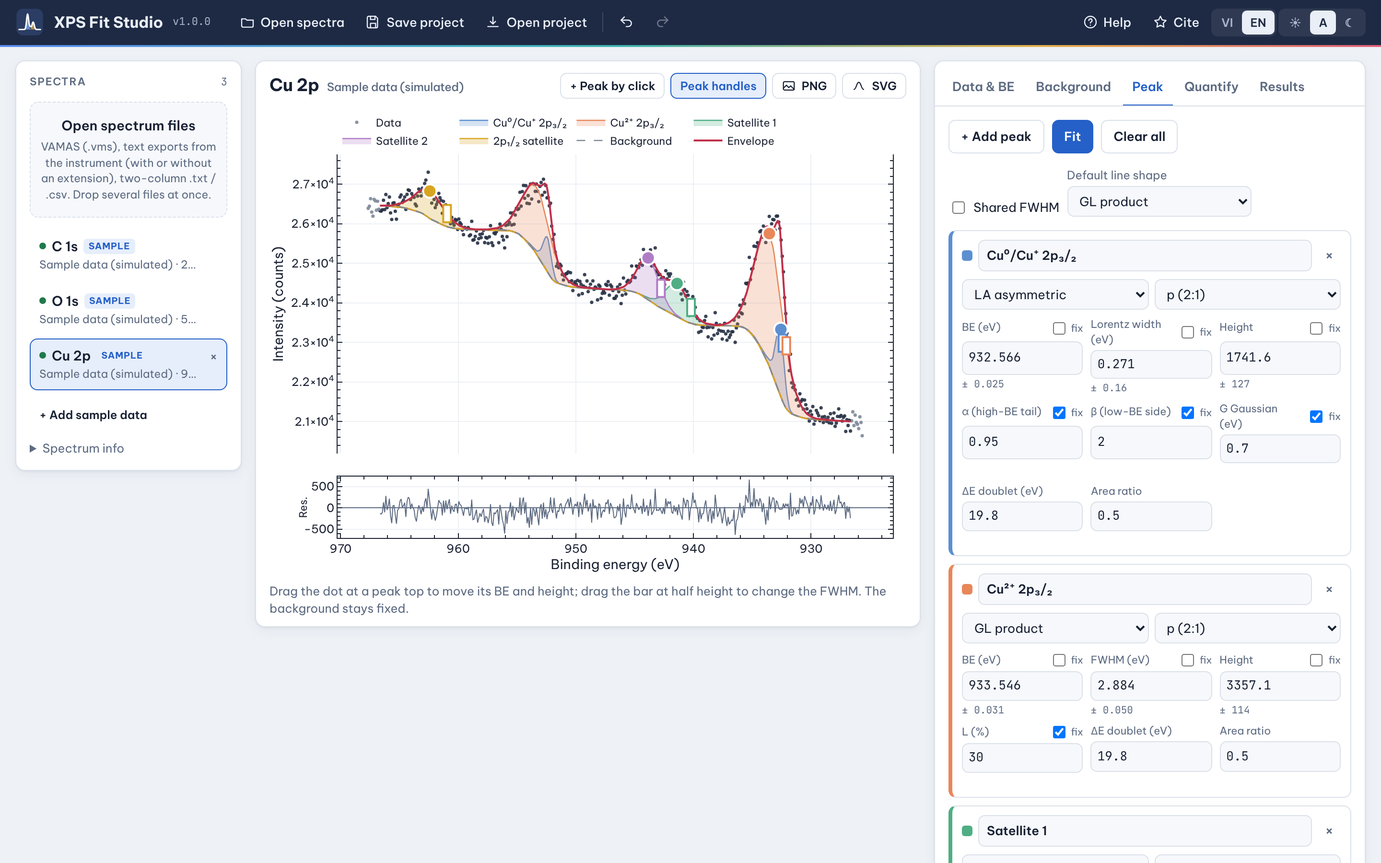
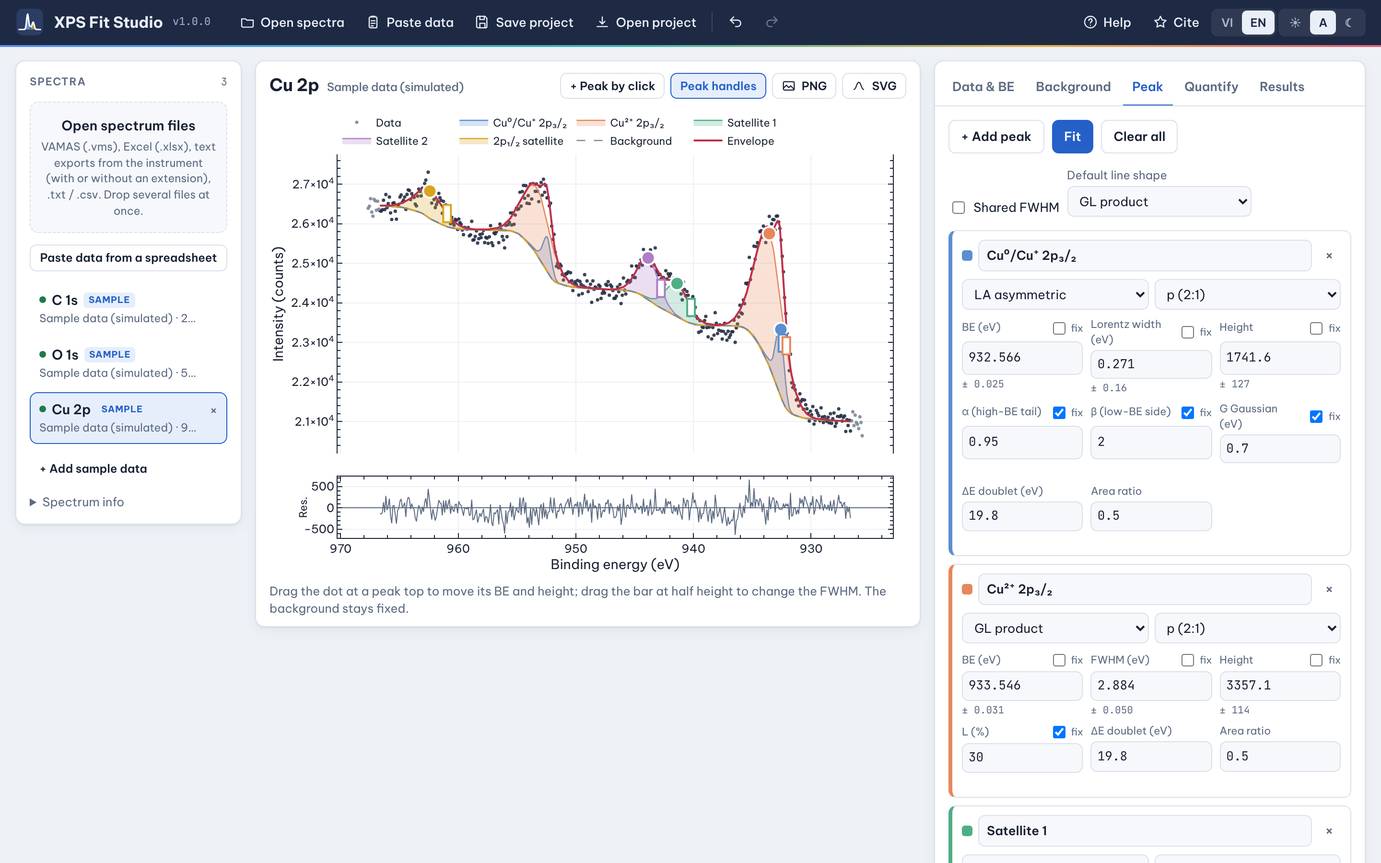
Add files via upload

Changed region(s): [[0.0, 0.3422, 0.1875, 0.5911], [0.0312, 0.1556, 0.1562, 0.3111], [0.2812, 0.0, 0.5, 0.0311]]

diff --git a/xpsfit/docs/app.js b/xpsfit/docs/app.js
@@ -1,6 +1,7 @@
 /* XPS Fit Studio — user interface. © 2026 Phong Hoai Le — MIT License. */
 (() => {
   const $ = id => document.getElementById(id);
+  const on = (id, ev, fn) => $(id).addEventListener(ev, fn);
   const t = I18N.t;
   XPS.t = I18N.t;
   const REPO = 'https://github.com/lephong2810/XPSFitStudio';
@@ -114,6 +115,13 @@
     let added = 0; const errs = [];
     for (const f of files) {
       try {
+        if (/\.(xlsx|xlsm|xls|ods)$/i.test(f.name)) {
+          const res = await readWorkbook(f);
+          if (res.ask) { openPaste(res.ask, f.name); continue; }
+          if (!added) spectra = spectra.filter(s => !s.sample);
+          res.spectra.forEach(s => spectra.push(s)); added += res.spectra.length;
+          continue;
+        }
         const text = await f.text();
         if (/\.json$|\.xpsfit$/i.test(f.name) && /"app"\s*:\s*"XPS Fit Studio"/.test(text.slice(0, 200))) { loadProject(text, true); toast(t('Đã mở project {0}', f.name)); continue; }
         const res = XPS.parseAny(text, f.name);
@@ -126,6 +134,118 @@
     if (added) { cur = spectra.length - added; afterStructure(); toast(t('Đã đọc {0} phổ', added) + (errs.length ? t(' (có cảnh báo)') : '')); }
     if (errs.length) setMsg(errs.join('\n'), true);
   }
+  // Spreadsheet files: every sheet with a BE column and at least one intensity column becomes spectra.
+  // When a sheet has no header and several numeric columns, the paste workbook opens so the columns can be checked.
+  async function readWorkbook(f) {
+    if (!window.XLSX) throw new Error(t('Thư viện Excel chưa tải xong, thử lại sau giây lát'));
+    const wb = XLSX.read(await f.arrayBuffer(), { type: 'array' });
+    const base = f.name.replace(/\.[^.]+$/, ''), out = [];
+    let ask = null;
+    wb.SheetNames.forEach(sn => {
+      const aoa = XLSX.utils.sheet_to_json(wb.Sheets[sn], { header: 1, raw: true, blankrows: false, defval: null });
+      if (!aoa.length) return;
+      try {
+        const T = XPS.detectTable(aoa);
+        const nY = T.cols.filter(c => c.role === 'y').length;
+        if (!T.headerRows && nY > 1 && wb.SheetNames.length === 1) { ask = aoa; return; }
+        const nm = wb.SheetNames.length > 1 && !/^(sheet|trang tính)\s*\d*$/i.test(sn) ? sn : base;
+        out.push(...XPS.tableToSpectra(T, { name: nm, source: f.name + (wb.SheetNames.length > 1 ? ' · ' + sn : '') }).spectra);
+      } catch (e) { if (!ask && wb.SheetNames.length === 1) ask = aoa; }
+    });
+    return out.length ? { spectra: out } : { ask: ask || [] };
+  }
+
+  // ======================================================================
+  // Paste workbook
+  // ======================================================================
+  let pasteAoa = [], pasteT = null, pasteFlip = false, pasteSrc = '';
+  const ROLES = [['be', 'BE (eV)'], ['ke', 'KE (eV)'], ['y', 'Cường độ'], ['skip', 'Bỏ qua']];
+  function openPaste(aoa, src) {
+    pasteAoa = aoa || []; pasteFlip = false; pasteSrc = src || t('Dán từ bảng tính');
+    $('pasteText').value = aoa && aoa.length ? aoa.slice(0, 2000).map(r => r.map(c => c === null || c === undefined ? '' : c).join('\t')).join('\n') : '';
+    if (src && !$('pName').value) $('pName').value = src.replace(/\.[^.]+$/, '');
+    detectPaste(); openDlg('dlgPaste');
+    setTimeout(() => { if (!aoa || !aoa.length) $('pasteText').focus(); }, 50);
+  }
+  function detectPaste(keepRoles) {
+    const old = keepRoles && pasteT ? pasteT.cols.map(c => c.role) : null;
+    try { pasteT = pasteAoa.length ? XPS.detectTable(pasteAoa, { transpose: pasteFlip ? !XPS.detectTable(pasteAoa).transposed : undefined }) : null; } catch (e) { pasteT = null; }
+    if (pasteT && old && old.length === pasteT.cols.length) pasteT.cols.forEach((c, i) => c.role = old[i]);
+    renderPaste();
+  }
+  function renderPaste() {
+    const g = $('pasteGrid'); g.innerHTML = '';
+    const T = pasteT;
+    if (!T || !T.cols.length) { $('pasteInfo').textContent = pasteAoa.length ? t('Không đọc được số liệu.') : ''; $('pasteAdd').disabled = true; Plotly.purge('pastePlot'); $('pastePlot').hidden = true; $('pHv').closest('.field').hidden = true; return; }
+    const nRows = Math.max(0, ...T.cols.map(c => c.data.length));
+    $('pasteInfo').textContent = t('{0} cột × {1} dòng', T.cols.length, nRows) + (T.transposed ? ' · ' + t('đã đổi hàng thành cột') : '');
+    const thead = document.createElement('thead'), r1 = document.createElement('tr'), r2 = document.createElement('tr');
+    r1.appendChild(document.createElement('th')); r2.appendChild(document.createElement('th'));
+    T.cols.forEach((c, j) => {
+      const th = document.createElement('th'), sel = document.createElement('select'); sel.id = 'pc' + j;
+      ROLES.forEach(([k, l]) => sel.add(new Option(t(l), k))); sel.value = c.role;
+      sel.onchange = () => { c.role = sel.value; renderPaste(); };
+      th.appendChild(sel); if (c.role === 'skip') th.className = 'off'; r1.appendChild(th);
+      const th2 = document.createElement('th'), inp = document.createElement('input'); inp.type = 'text'; inp.id = 'pl' + j; inp.value = c.label; inp.placeholder = t('cột {0}', j + 1);
+      inp.onchange = () => { c.label = inp.value.trim(); renderPaste(); };
+      th2.appendChild(inp); if (c.role === 'skip') th2.className = 'off'; r2.appendChild(th2);
+    });
+    thead.append(r1, r2); g.appendChild(thead);
+    const tb = document.createElement('tbody'), show = Math.min(nRows, 6);
+    for (let i = 0; i < show; i++) {
+      const tr = document.createElement('tr'), rh = document.createElement('td'); rh.className = 'rh'; rh.textContent = i + 1; tr.appendChild(rh);
+      T.cols.forEach(c => { const td = document.createElement('td'); td.textContent = c.data[i] ?? ''; if (c.role === 'skip') td.className = 'off'; tr.appendChild(td); });
+      tb.appendChild(tr);
+    }
+    if (nRows > show) { const tr = document.createElement('tr'); tr.className = 'more'; const td = document.createElement('td'); td.colSpan = T.cols.length + 1; td.textContent = t('… và {0} dòng nữa', nRows - show); tr.appendChild(td); tb.appendChild(tr); }
+    g.appendChild(tb);
+    const hasKE = T.cols.some(c => c.role === 'ke');
+    $('pHv').closest('.field').hidden = !hasKE;
+    let res = null;
+    try { res = XPS.tableToSpectra(T, pasteOpts()); } catch (e) { }
+    $('pasteAdd').disabled = !res;
+    $('pasteAdd').textContent = res && res.spectra.length > 1 ? t('Thêm {0} phổ vào danh sách', res.spectra.length) : t('Thêm vào danh sách phổ');
+    $('pastePlot').hidden = !res;
+    if (res) {
+      const tr = res.spectra.map((s, k) => ({ x: s.be, y: s.y, name: s.name, mode: 'lines', line: { width: 1.4, color: PAL[k % PAL.length] } }));
+      const ink = css('--plot-ink'), grid = css('--plot-grid');
+      Plotly.react('pastePlot', tr, { margin: { l: 56, r: 10, t: 8, b: 36 }, paper_bgcolor: 'rgba(0,0,0,0)', plot_bgcolor: css('--plot-bg'), font: { family: css('--f-ui'), size: 11, color: ink },
+        xaxis: { autorange: 'reversed', title: { text: 'Binding energy (eV)' }, gridcolor: grid, showline: true, mirror: true, linecolor: ink }, yaxis: { gridcolor: grid, showline: true, mirror: true, linecolor: ink, exponentformat: 'power' },
+        showlegend: res.spectra.length > 1, legend: { orientation: 'h', y: 1.02, yanchor: 'bottom' } }, { displayModeBar: false, responsive: true });
+    } else Plotly.purge('pastePlot');
+  }
+  function pasteOpts() {
+    const a = parseFloat($('pAcq').value);
+    return { name: $('pName').value.trim() || pasteSrc.replace(/\.[^.]+$/, '') || 'Spectrum', source: pasteSrc, unit: $('pUnit').value || null, acq: a > 0 ? a : null, hv: parseFloat($('pHv').value) || 1486.6 };
+  }
+  let pasteTimer = null;
+  on('pasteText', 'input', () => { clearTimeout(pasteTimer); pasteTimer = setTimeout(() => { pasteAoa = XPS.textToAoa($('pasteText').value); if (pasteSrc === t('Dán từ bảng tính') || !pasteSrc) pasteSrc = t('Dán từ bảng tính'); detectPaste(); }, 200); });
+  on('pasteFlip', 'click', () => { pasteFlip = !pasteFlip; detectPaste(); });
+  on('pasteClear', 'click', () => { $('pasteText').value = ''; pasteAoa = []; pasteT = null; renderPaste(); $('pasteText').focus(); });
+  ['pName', 'pUnit', 'pAcq', 'pHv'].forEach(id => on(id, 'change', renderPaste));
+  on('pasteOpenFile', 'click', () => $('pasteFile').click());
+  on('pasteFile', 'change', async e => {
+    const f = e.target.files[0]; e.target.value = ''; if (!f) return;
+    try {
+      let aoa;
+      if (/\.(xlsx|xlsm|xls|ods)$/i.test(f.name)) { const wb = XLSX.read(await f.arrayBuffer(), { type: 'array' }); aoa = XLSX.utils.sheet_to_json(wb.Sheets[wb.SheetNames[0]], { header: 1, raw: true, blankrows: false, defval: null }); }
+      else aoa = XPS.textToAoa(await f.text());
+      pasteSrc = f.name; if (!$('pName').value) $('pName').value = f.name.replace(/\.[^.]+$/, '');
+      pasteAoa = aoa; $('pasteText').value = aoa.slice(0, 2000).map(r => r.map(c => c ?? '').join('\t')).join('\n'); pasteFlip = false; detectPaste();
+    } catch (err) { $('pasteInfo').textContent = err.message; }
+  });
+  on('pasteAdd', 'click', () => {
+    try {
+      const res = XPS.tableToSpectra(pasteT, pasteOpts());
+      spectra = spectra.filter(s => !s.sample);
+      res.spectra.forEach(s => spectra.push(s));
+      cur = spectra.length - res.spectra.length; afterStructure();
+      $('dlgPaste').close(); toast(t('Đã đọc {0} phổ', res.spectra.length));
+      $('pName').value = ''; $('pasteText').value = ''; pasteAoa = []; pasteT = null;
+    } catch (e) { $('pasteInfo').textContent = e.message; }
+  });
+  on('mPaste', 'click', () => openPaste(null)); on('openPaste', 'click', () => openPaste(null));
+
   async function saveFile(filename, data, mime) {
     if (window.claude && typeof window.claude.use === 'function') {
       let dl = null;
@@ -448,7 +568,6 @@
   // ======================================================================
   // Controls
   // ======================================================================
-  const on = (id, ev, fn) => $(id).addEventListener(ev, fn);
   on('sName', 'change', e => { S().name = e.target.value.trim() || S().name; renderList(); renderControls(); afterEdit(); });
   on('sHv', 'change', e => { S().hv = +e.target.value || 1486.6; afterEdit(); });
   on('sUnit', 'change', e => { S().unit = e.target.value; $('sAcq').disabled = S().unit === 'au'; if (S().fit) S().fit = null; afterEdit(); renderPeakErrors(); });

diff --git a/xpsfit/docs/core.js b/xpsfit/docs/core.js
@@ -177,8 +177,100 @@ const XPS = (() => {
     return { spectra, warnings };
   }
 
+  // ---------- Generic tables (spreadsheets, pasted cells, delimited text) ----------
+  // Text → array of rows. Tabs (spreadsheet paste) win; then ; or , ; then whitespace. Decimal commas are accepted.
+  function textToAoa(text) {
+    const lines = text.replace(/\r/g, '').split('\n').filter(l => l.trim() !== '');
+    const sample = lines.slice(0, 50).join('\n');
+    const sep = /\t/.test(sample) ? /\t/ : /;/.test(sample) ? /;/ : /,\s*\S/.test(sample) && !/\d,\d+\s+\d/.test(sample) && (sample.match(/,/g) || []).length >= lines.slice(0, 50).length ? /,/ : /\s+/;
+    const commaDec = sep.source !== ',' && /\d,\d/.test(sample) && !/\d\.\d/.test(sample);
+    return lines.map(l => l.trim().split(sep).map(c => {
+      const t = c.trim().replace(/^"|"$/g, '');
+      const n = toNum(commaDec ? t.replace(',', '.') : t);
+      return n === null ? t : n;
+    }));
+  }
+  function toNum(v) {
+    if (typeof v === 'number') return isFinite(v) ? v : null;
+    if (v === null || v === undefined) return null;
+    const t = String(v).trim();
+    return /^[-+]?(\d+\.?\d*|\.\d+)([eE][-+]?\d+)?$/.test(t) ? parseFloat(t) : null;
+  }
+  // Find the columns of a table and guess each column's role: 'be', 'ke', 'y' or 'skip'.
+  function detectTable(aoa, opts = {}) {
+    let rows = (aoa || []).map(r => (r || []).map(c => (c === undefined || c === '') ? null : c)).filter(r => r.some(c => c !== null));
+    const numFrac = r => r.filter(c => toNum(c) !== null).length / Math.max(1, r.filter(c => c !== null).length);
+    const width = Math.max(0, ...rows.map(r => r.length));
+    let transposed = !!opts.transpose;
+    if (opts.transpose === undefined) {
+      const longRows = rows.filter(r => r.filter(c => toNum(c) !== null).length >= 8).length;
+      transposed = rows.length <= 12 && width >= 8 && longRows >= 2 && longRows >= rows.length / 2;
+    }
+    if (transposed) rows = Array.from({ length: width }, (_, j) => rows.map(r => r[j] ?? null)).filter(r => r.some(c => c !== null));
+    let h = 0; while (h < rows.length && h < 5 && numFrac(rows[h]) < 0.5) h++;
+    const head = rows.slice(0, h), body = rows.slice(h);
+    const nC = Math.max(0, ...rows.map(r => r.length));
+    const cols = [];
+    for (let j = 0; j < nC; j++) {
+      const data = body.map(r => toNum(r[j]));
+      const label = head.map(r => r[j]).filter(c => c !== null && c !== undefined && String(c).trim() !== '').map(String).join(' ').trim();
+      cols.push({ label, data, n: data.filter(v => v !== null).length });
+    }
+    const isAxis = c => {
+      const v = c.data.filter(x => x !== null);
+      if (v.length < 5) return false;
+      const d = v.slice(1).map((x, i) => x - v[i]);
+      const allPos = d.every(x => x > 0), allNeg = d.every(x => x < 0);
+      if (!allPos && !allNeg) return false;
+      const m = d.reduce((a, x) => a + x, 0) / d.length, sd = Math.sqrt(d.reduce((a, x) => a + (x - m) ** 2, 0) / d.length);
+      return sd <= Math.abs(m) * 0.25 && Math.abs(m) < 5 && v.every(x => x > -20 && x < 2000);
+    };
+    cols.forEach(c => {
+      const L = c.label.toLowerCase();
+      if (c.n < 5) c.role = 'skip';
+      else if (/transmission|^#|index|^stt$/.test(L)) c.role = 'skip';
+      else if (/binding|\bbe\b|b\.e\.|năng lượng liên kết/.test(L)) c.role = 'be';
+      else if (/kinetic|\bke\b|k\.e\.|động năng/.test(L)) c.role = 'ke';
+      else c.role = L && !/energy|ev\b/.test(L) ? 'y' : (isAxis(c) ? 'be' : 'y');
+    });
+    if (!cols.some(c => c.role === 'be' || c.role === 'ke')) { const f = cols.find(c => c.role !== 'skip' && isAxis(c)) || cols.find(c => c.role !== 'skip'); if (f) f.role = 'be'; }
+    // a KE column next to a BE column (KE, BE, I exports) is redundant
+    if (cols.some(c => c.role === 'be')) cols.forEach(c => { if (c.role === 'ke') c.role = 'skip'; });
+    return { cols, transposed, headerRows: h };
+  }
+  // Build spectra from a detected (and possibly user-edited) table.
+  function tableToSpectra(T, opts = {}) {
+    const { name = 'Spectrum', source = 'table', unit = null, acq = null, hv = 1486.6 } = opts;
+    const cols = T.cols, out = [], warnings = [];
+    const ys = cols.map((c, j) => ({ c, j })).filter(o => o.c.role === 'y');
+    ys.forEach(({ c, j }, k) => {
+      let ax = null;
+      for (let i = j - 1; i >= 0; i--) if (cols[i].role === 'be' || cols[i].role === 'ke') { ax = cols[i]; break; }
+      if (!ax) ax = cols.find(cc => cc.role === 'be' || cc.role === 'ke');
+      if (!ax) return;
+      const be = [], y = [];
+      c.data.forEach((v, i) => { const e = ax.data[i]; if (v !== null && e !== null && e !== undefined) { be.push(ax.role === 'ke' ? hv - e : e); y.push(v); } });
+      if (be.length < 5) return;
+      const L = c.label.toLowerCase();
+      const u = unit || (/cps|c\/s|\/s\b|per sec/.test(L) ? 'cps' : /count/.test(L) ? 'counts' : 'au');
+      const generic = !c.label || /^(intensity|counts?|cps|y|signal|cường độ)\b/i.test(c.label.trim());
+      const nm = ys.length === 1 ? (opts.name || (generic ? name : c.label)) : (generic ? name + ' #' + (k + 1) : c.label);
+      const meta = { 'Cột dùng': (ax.label || (ax.role === 'ke' ? 'KE' : 'BE')) + ' · ' + (c.label || tr('cột {0}', j + 1)) };
+      if (ax.role === 'ke') { meta['Ghi chú'] = tr('BE = {0} − KE', hv); }
+      if (T.transposed) meta['Bố cục'] = tr('số liệu theo hàng (đã đổi sang cột)');
+      out.push(makeSpectrum({ name: nm.replace(/\s*\((cps|counts?|a\.?u\.?)\)\s*$/i, '').trim() || name, source, be, y, unit: u, acq: u === 'au' ? null : acq, hv, meta }));
+    });
+    if (!out.length) throw new Error(tr('Không tìm thấy cột số (Binding Energy, Intensity) trong file.'));
+    return { spectra: out, warnings };
+  }
+  function parseTable(aoa, fileName, opts = {}) {
+    const T = detectTable(aoa, opts);
+    return Object.assign(tableToSpectra(T, Object.assign({ name: fileName.replace(/\.[^.]+$/, ''), source: fileName }, opts)), { table: T });
+  }
   function parseAny(text, fileName) {
-    return /^\s*VAMAS/i.test(text) || /\.vms$/i.test(fileName) ? parseVamas(text, fileName) : parseColumns(text, fileName);
+    if (/^\s*VAMAS/i.test(text) || /\.vms$/i.test(fileName)) return parseVamas(text, fileName);
+    if (/^\s*Dataset\b/im.test(text) || /dwell time|number of (sweeps|scans)/i.test(text)) return parseColumns(text, fileName);
+    try { return parseTable(textToAoa(text), fileName); } catch (e) { return parseColumns(text, fileName); }
   }
 
   let uid = 1;
@@ -638,7 +730,7 @@ const XPS = (() => {
   return {
     VERSION, SHAPES, RSF,
     set t(fn) { T = fn || (s => s); },
-    parseVamas, parseColumns, parseAny, makeSpectrum, reviveSpectrum, normComp,
+    parseVamas, parseColumns, parseAny, textToAoa, detectTable, tableToSpectra, parseTable, makeSpectrum, reviveSpectrum, normComp,
     xOf, regionIdx, background, compCurve, mainLineAt, shapeVal, compArea, measuredFwhm, shapeLabel,
     fit, fitErrors, stats, signature, round, unitFactor,
     guessRsfKey, regionIntensity, toCps, quantify, methodsText

diff --git a/xpsfit/docs/index.html b/xpsfit/docs/index.html
@@ -25,6 +25,7 @@
     </a>
     <nav class="barbtns" aria-label="Tệp">
       <button class="bbtn" id="mOpen" title="Mở file phổ (.vms, .txt, .csv)"><svg viewBox="0 0 24 24"><path d="M3 7h6l2 2h10v9a2 2 0 0 1-2 2H5a2 2 0 0 1-2-2z"/></svg><span>Mở phổ</span></button>
+      <button class="bbtn" id="mPaste" title="Dán số liệu từ Excel hoặc file khác"><svg viewBox="0 0 24 24"><rect x="6" y="4" width="12" height="17" rx="2"/><path d="M9 4V3h6v1M9 10h6M9 14h6M9 18h3"/></svg><span>Dán số liệu</span></button>
       <button class="bbtn" id="mSave" title="Lưu project (Ctrl/⌘ S)"><svg viewBox="0 0 24 24"><path d="M5 3h11l3 3v13a2 2 0 0 1-2 2H5a2 2 0 0 1-2-2V5a2 2 0 0 1 2-2z"/><path d="M8 3v5h7V3M8 21v-7h8v7"/></svg><span>Lưu project</span></button>
       <button class="bbtn" id="mLoad" title="Mở project (.xpsfit.json)"><svg viewBox="0 0 24 24"><path d="M12 4v11m0 0-4-4m4 4 4-4M4 19h16"/></svg><span>Mở project</span></button>
       <span class="sep"></span>
@@ -47,9 +48,11 @@
     <div class="sidehead"><p class="label">Phổ</p><span class="count num" id="specCount" data-dyn></span></div>
     <label class="drop" id="drop" for="file">
       <strong>Mở file phổ</strong>
-      <small>VAMAS (.vms), file văn bản xuất từ máy đo (kể cả không có đuôi), .txt / .csv hai cột. Kéo thả được nhiều file.</small>
+      <small>VAMAS (.vms), Excel (.xlsx), file văn bản xuất từ máy đo (kể cả không có đuôi), .txt / .csv. Kéo thả được nhiều file.</small>
     </label>
+    <button class="btn sm" id="openPaste">Dán số liệu từ bảng tính</button>
     <input type="file" id="file" multiple hidden>
+    <input type="file" id="pasteFile" accept=".xlsx,.xls,.xlsm,.ods,.csv,.txt,.dat,.xy" hidden>
     <input type="file" id="projFile" accept=".json,.xpsfit,application/json" hidden>
     <ul class="speclist" id="speclist" data-dyn></ul>
     <button class="btn sm ghost" id="loadSamples">+ Thêm dữ liệu mẫu</button>
@@ -231,6 +234,33 @@
       <h4>Giới thiệu</h4>
       <p id="aboutLine" data-dyn></p>
       <p>Phát triển bởi TS. Lê Hoài Phong, Khoa Hóa học, Trường Đại học Khoa học Tự nhiên, ĐHQG-HCM. Phát hành theo giấy phép MIT. Dùng Plotly.js (MIT) và SheetJS Community Edition (Apache-2.0). XPS Fit Studio là dự án độc lập, không liên kết với hãng thiết bị hay phần mềm nào; mọi nhãn hiệu thuộc về chủ sở hữu.</p>
+    </div>
+  </div>
+</dialog>
+
+<dialog id="dlgPaste" class="wide" aria-labelledby="pTitle">
+  <div class="dhead"><h3 id="pTitle">Dán số liệu từ bảng tính</h3><button class="x" data-close aria-label="Đóng">×</button></div>
+  <div class="dbody">
+    <p class="hint">Chép các ô trong Excel hoặc file khác (Ctrl/⌘ C) rồi dán vào ô dưới đây (Ctrl/⌘ V). Số liệu xếp theo cột hay theo hàng đều được; có thể dán cả dòng tiêu đề.</p>
+    <textarea id="pasteText" class="pastebox" rows="6" spellcheck="false" placeholder="Dán vào đây, ví dụ:&#10;Binding energy (eV)&#9;Intensity&#10;295.0&#9;3120&#10;294.9&#9;3135"></textarea>
+    <div class="row">
+      <button class="btn sm" id="pasteOpenFile">Mở file Excel / CSV vào bảng</button>
+      <button class="btn sm" id="pasteFlip">Đổi hàng ↔ cột</button>
+      <button class="btn sm ghost" id="pasteClear">Xoá</button>
+      <span class="hint" id="pasteInfo" data-dyn></span>
+    </div>
+    <div class="row">
+      <div class="field"><label for="pName">Tên phổ (mức lõi)</label><input type="text" id="pName" placeholder="C 1s"></div>
+      <div class="field"><label for="pUnit">Đơn vị cường độ</label>
+        <select id="pUnit"><option value="">Tự nhận theo tiêu đề</option><option value="counts">counts (số đếm)</option><option value="cps">counts/s (cps)</option><option value="au">a.u. (không rõ)</option></select></div>
+      <div class="field"><label for="pAcq">Thời gian thu mỗi điểm (s)</label><input type="number" id="pAcq" step="0.01" min="0"></div>
+      <div class="field"><label for="pHv">hν (eV)</label><input type="number" id="pHv" step="0.1" value="1486.6"></div>
+    </div>
+    <div class="tablewrap"><table class="res pgridt" id="pasteGrid" data-dyn></table></div>
+    <div id="pastePlot" class="pasteplot"></div>
+    <div class="row dactions">
+      <button class="btn" data-close>Huỷ</button>
+      <button class="btn primary" id="pasteAdd" disabled>Thêm vào danh sách phổ</button>
     </div>
   </div>
 </dialog>

diff --git a/xpsfit/docs/i18n.js b/xpsfit/docs/i18n.js
@@ -52,6 +52,15 @@ const I18N = (() => {
     'O lưới (M–O)': 'Lattice O (M–O)', 'OH / O hấp phụ': 'OH / adsorbed O', 'H₂O hấp phụ': 'Adsorbed H₂O', 'Vệ tinh 1': 'Satellite 1', 'Vệ tinh 2': 'Satellite 2', 'Vệ tinh 2p₁/₂': '2p₁/₂ satellite',
     'Lời cảm ơn (Acknowledgments)': 'Acknowledgments', 'Phần Methods / Experimental': 'Methods / Experimental', 'Chú thích hình / SI': 'Figure caption / SI', 'Tài liệu tham khảo (kiểu ACS)': 'Reference (ACS style)',
     // engine
+    'Dán số liệu từ Excel hoặc file khác': 'Paste data from Excel or another file', 'Dán số liệu': 'Paste data', 'Dán số liệu từ bảng tính': 'Paste data from a spreadsheet',
+    'VAMAS (.vms), Excel (.xlsx), file văn bản xuất từ máy đo (kể cả không có đuôi), .txt / .csv. Kéo thả được nhiều file.': 'VAMAS (.vms), Excel (.xlsx), text exports from the instrument (with or without an extension), .txt / .csv. Drop several files at once.',
+    'Chép các ô trong Excel hoặc file khác (Ctrl/⌘ C) rồi dán vào ô dưới đây (Ctrl/⌘ V). Số liệu xếp theo cột hay theo hàng đều được; có thể dán cả dòng tiêu đề.': 'Copy the cells in Excel or another file (Ctrl/⌘ C) and paste them below (Ctrl/⌘ V). Data in columns or in rows both work, and a header row may be included.',
+    'Dán vào đây, ví dụ:\nBinding energy (eV)\tIntensity\n295.0\t3120\n294.9\t3135': 'Paste here, for example:\nBinding energy (eV)\tIntensity\n295.0\t3120\n294.9\t3135',
+    'Mở file Excel / CSV vào bảng': 'Load an Excel / CSV file into the table', 'Đổi hàng ↔ cột': 'Swap rows ↔ columns', 'Xoá': 'Clear',
+    'Tự nhận theo tiêu đề': 'Detect from the header', 'Huỷ': 'Cancel', 'Thêm vào danh sách phổ': 'Add to spectra', 'Thêm {0} phổ vào danh sách': 'Add {0} spectra',
+    'Dán từ bảng tính': 'Pasted from a spreadsheet', 'Không đọc được số liệu.': 'No numeric data found.', '{0} cột × {1} dòng': '{0} columns × {1} rows',
+    'đã đổi hàng thành cột': 'rows turned into columns', 'Cường độ': 'Intensity', 'Bỏ qua': 'Skip', '… và {0} dòng nữa': '… and {0} more rows',
+    'BE = {0} − KE': 'BE = {0} − KE', 'số liệu theo hàng (đã đổi sang cột)': 'data in rows (converted to columns)', 'Bố cục': 'Layout',
     'File VAMAS bị cắt ngang ở dòng {0}': 'The VAMAS file ends unexpectedly at line {0}', 'Dòng {0} không phải số: "{1}"': 'Line {0} is not a number: "{1}"',
     'Không phải file VAMAS (dòng đầu: "{0}")': 'Not a VAMAS file (first line: "{0}")', 'File dùng danh sách loại trừ tham số; có thể đọc không chính xác.': 'The file uses a parameter exclusion list and may not be read correctly.',
     'Chỉ hỗ trợ VAMAS kiểu quét REGULAR (khối "{0}" là {1}).': 'Only REGULAR-scan VAMAS files are supported (block "{0}" is {1}).', 'Khối {0}': 'Block {0}',

diff --git a/xpsfit/docs/sw.js b/xpsfit/docs/sw.js
@@ -1,6 +1,6 @@
 /* XPS Fit Studio service worker: install as an app and work offline.
    VERSION is updated by build_docs.py whenever the app files change. */
-const VERSION = "3a343d1982";
+const VERSION = "50e41dfa91";
 const CACHE = "xpsfit-" + VERSION;
 const SHELL = [ "./", "index.html", "styles.css", "fonts.css", "i18n.js", "core.js", "app.js", "manifest.webmanifest", "vendor/plotly-2.27.0.min.js", "vendor/xlsx-0.18.5.full.min.js", "icons/logo.svg", "icons/favicon-64.png", "icons/icon-192.png", "icons/icon-512.png", "fonts/be-vietnam-pro-latin-400-normal.woff2", "fonts/be-vietnam-pro-latin-500-normal.woff2", "fonts/be-vietnam-pro-latin-600-normal.woff2", "fonts/be-vietnam-pro-latin-700-normal.woff2", "fonts/be-vietnam-pro-latin-ext-400-normal.woff2", "fonts/be-vietnam-pro-latin-ext-500-normal.woff2", "fonts/be-vietnam-pro-latin-ext-600-normal.woff2", "fonts/be-vietnam-pro-latin-ext-700-normal.woff2", "fonts/be-vietnam-pro-vietnamese-400-normal.woff2", "fonts/be-vietnam-pro-vietnamese-500-normal.woff2", "fonts/be-vietnam-pro-vietnamese-600-normal.woff2", "fonts/be-vietnam-pro-vietnamese-700-normal.woff2", "fonts/jetbrains-mono-latin-400-normal.woff2", "fonts/jetbrains-mono-latin-500-normal.woff2", "fonts/jetbrains-mono-latin-ext-400-normal.woff2", "fonts/jetbrains-mono-latin-ext-500-normal.woff2", "fonts/jetbrains-mono-vietnamese-400-normal.woff2", "fonts/jetbrains-mono-vietnamese-500-normal.woff2" ];
 self.addEventListener("install", e => { e.waitUntil(caches.open(CACHE).then(c => c.addAll(SHELL)).then(() => self.skipWaiting())); });

diff --git a/xpsfit/docs/styles.css b/xpsfit/docs/styles.css
@@ -222,3 +222,18 @@ kbd { font-family: var(--f-num); font-size: 11px; border: 1px solid var(--line);
 @media (max-width: 640px) { .brand small { display: none; } .bbtn span { display: none; } }
 #resTable .pm { display: block; }
 #resTable td { white-space: normal; }
+
+/* paste workbook */
+dialog.wide { width: min(980px, calc(100% - 32px)); }
+.pastebox { font-family: var(--f-num); font-size: 12px; white-space: pre; overflow: auto; min-height: 110px; }
+.pgridt th { vertical-align: bottom; }
+.pgridt th select { max-width: 130px; }
+.pgridt th input[type=text] { width: 120px; font-size: 12px; padding: 3px 5px; }
+.pgridt td { font-family: var(--f-num); color: var(--ink); }
+.pgridt td.off, .pgridt th.off { opacity: .4; }
+.pgridt .rh { color: var(--muted); font-size: 11px; text-align: right; }
+.pgridt tr.more td { color: var(--muted); font-family: var(--f-ui); text-align: left; }
+.dactions { justify-content: flex-end; position: sticky; bottom: 0; background: var(--panel); padding-block: 10px 2px; border-top: 1px solid var(--line); margin-top: -6px; }
+dialog { overflow: auto; }
+.pasteplot { width: 100%; height: 190px; border: 1px solid var(--line); border-radius: 8px; background: var(--plot-bg); }
+.side #openPaste { width: 100%; justify-content: center; }

diff --git a/README.md b/README.md
@@ -19,7 +19,9 @@ XPS Fit Studio takes a spectrum from the instrument file to a fitted, quantified
 - **Data in:**
   - VAMAS / ISO 14976 files (`.vms`), multi-block, kinetic- or binding-energy abscissa.
   - Labelled text exports with KE / BE / intensity (cps) columns and dwell time / number of sweeps (files without an extension work too).
-  - Plain two-column TXT / CSV. Drag and drop several files at once.
+  - Excel workbooks (`.xlsx`, `.xls`, `.ods`) and delimited TXT / CSV: BE and intensity columns are detected automatically, including data laid out in rows, several intensity columns sharing one BE column, or BE–intensity column pairs.
+  - A paste workbook: copy cells from any spreadsheet, check the column roles in a preview table and plot, then add the spectra.
+  - Drag and drop several files at once.
 - **Binding-energy calibration:** manual shift, or reference to a known line (e.g. C 1s = 284.8 eV), then apply the same shift to every region.
 - **Backgrounds:**
   - Iterative Shirley, smart Shirley (kept below the data), two-parameter Tougaard U2, linear.
@@ -58,7 +60,7 @@ XPS Fit Studio takes a spectrum from the instrument file to a fitted, quantified
 ## Quick start
 
 1. Open <https://lephong2810.github.io/XPSFitStudio/>. Three simulated example regions (C 1s, O 1s, Cu 2p) are loaded so you can try every step.
-2. **Open spectra** (or drag files onto the left column). Example files are in [`xpsfit/examples/`](xpsfit/examples/).
+2. **Open spectra** (or drag files onto the left column), or use **Paste data** to paste cells copied from a spreadsheet. Example files are in [`xpsfit/examples/`](xpsfit/examples/).
 3. Work through the tabs:
    - **Data & BE:** check the intensity unit and acquisition time, calibrate the BE scale, then *Apply to all spectra*.
    - **Background:** set the region and background type; add anchors where needed.

diff --git a/xpsfit/docs/HUONG_DAN_GITHUB.md b/xpsfit/docs/HUONG_DAN_GITHUB.md
@@ -52,7 +52,8 @@ Sau lần mở đầu tiên có mạng, app chạy được cả khi không có 
 
 | Việc cần làm | Thao tác |
 |---|---|
-| Mở phổ | Nút **Mở phổ**, hoặc kéo thả file vào cột trái. Đọc được `.vms` (VAMAS), file văn bản xuất từ máy đo (cột KE/BE/cps, kể cả không có đuôi) và `.txt`/`.csv` hai cột |
+| Mở phổ | Nút **Mở phổ**, hoặc kéo thả file vào cột trái. Đọc được `.vms` (VAMAS), Excel (`.xlsx`, `.xls`, `.ods`), file văn bản xuất từ máy đo (cột KE/BE/cps, kể cả không có đuôi) và `.txt`/`.csv`. Tự nhận cột BE và cường độ, kể cả số liệu xếp theo hàng, nhiều cột cường độ chung một cột BE, hoặc từng cặp cột BE–cường độ |
+| Dán số liệu | Nút **Dán số liệu**: chép các ô trong Excel rồi dán vào. Bảng xem trước cho chọn vai trò từng cột (BE, KE, cường độ, bỏ qua), đổi hàng ↔ cột, đặt tên phổ và đơn vị, xem trước hình rồi bấm **Thêm vào danh sách phổ** |
 | Đơn vị, thời gian thu | Tab **Dữ liệu & BE**: chọn counts / cps / a.u. và thời gian thu mỗi điểm (dwell × số lần quét). Cần đúng để χ² và định lượng có ý nghĩa |
 | Hiệu chỉnh BE | Tab **Dữ liệu & BE**: nhập đỉnh đo được và giá trị chuẩn (C 1s = 284.8 eV) → **Tính độ dịch** → **Áp dụng cho mọi phổ** |
 | Trừ nền | Tab **Nền**: vùng, kiểu nền (Shirley, Smart, Tougaard U2, tuyến tính), điểm neo. Kéo vòng tròn trên đồ thị để chỉnh mức nền |
